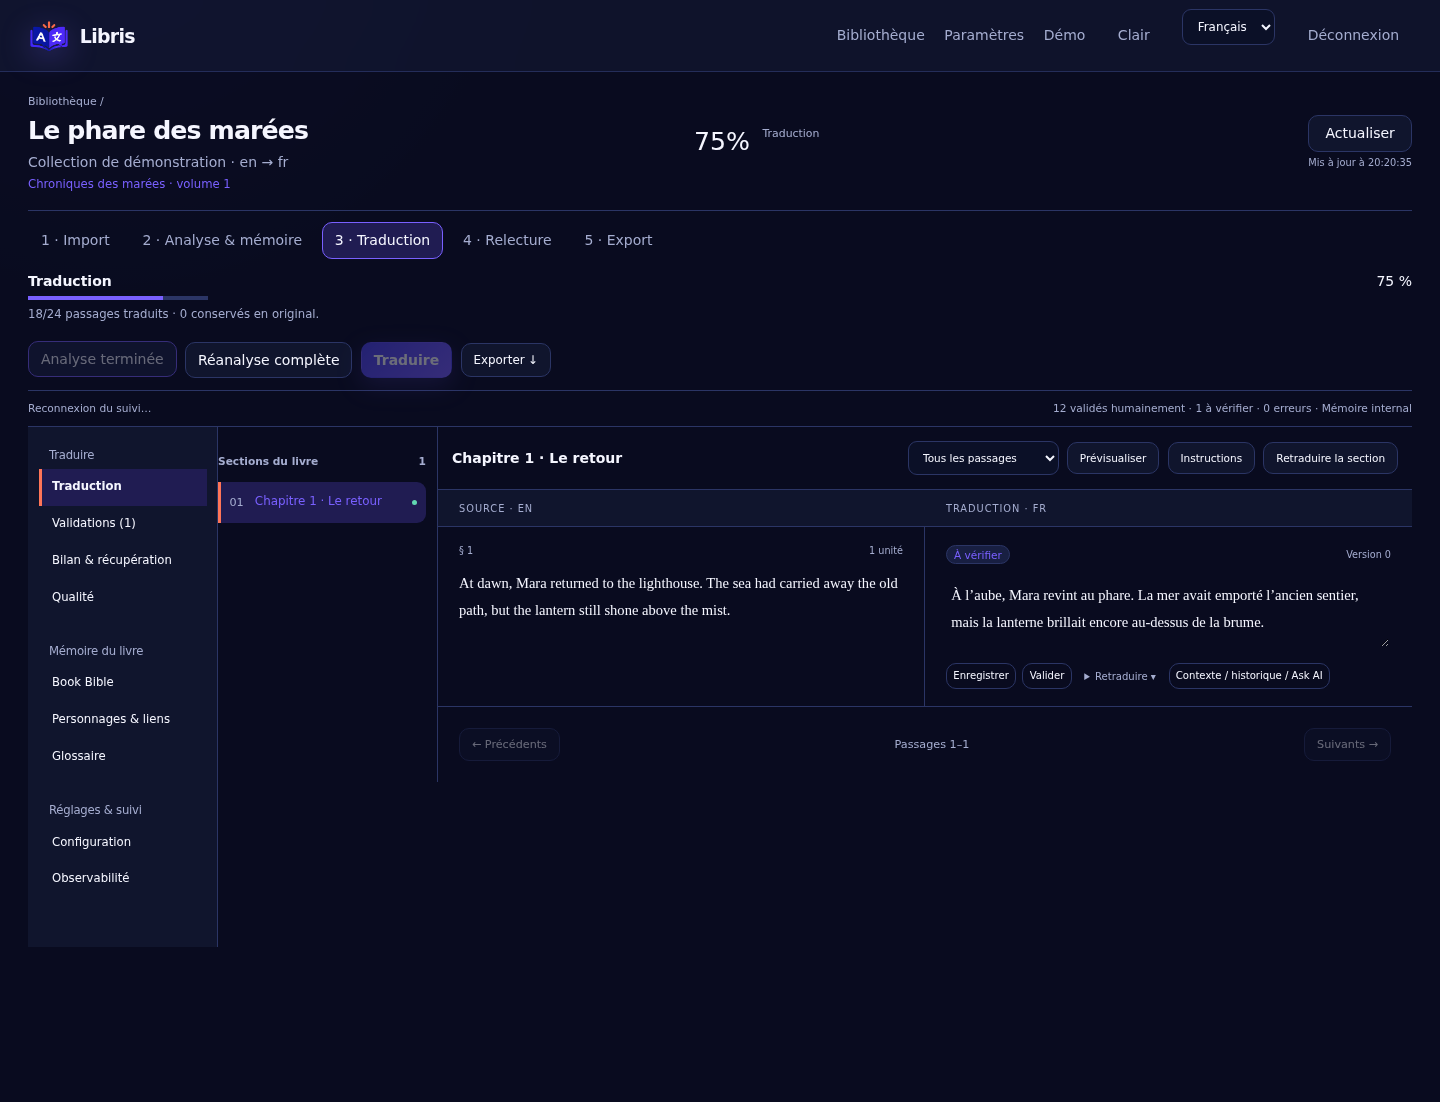
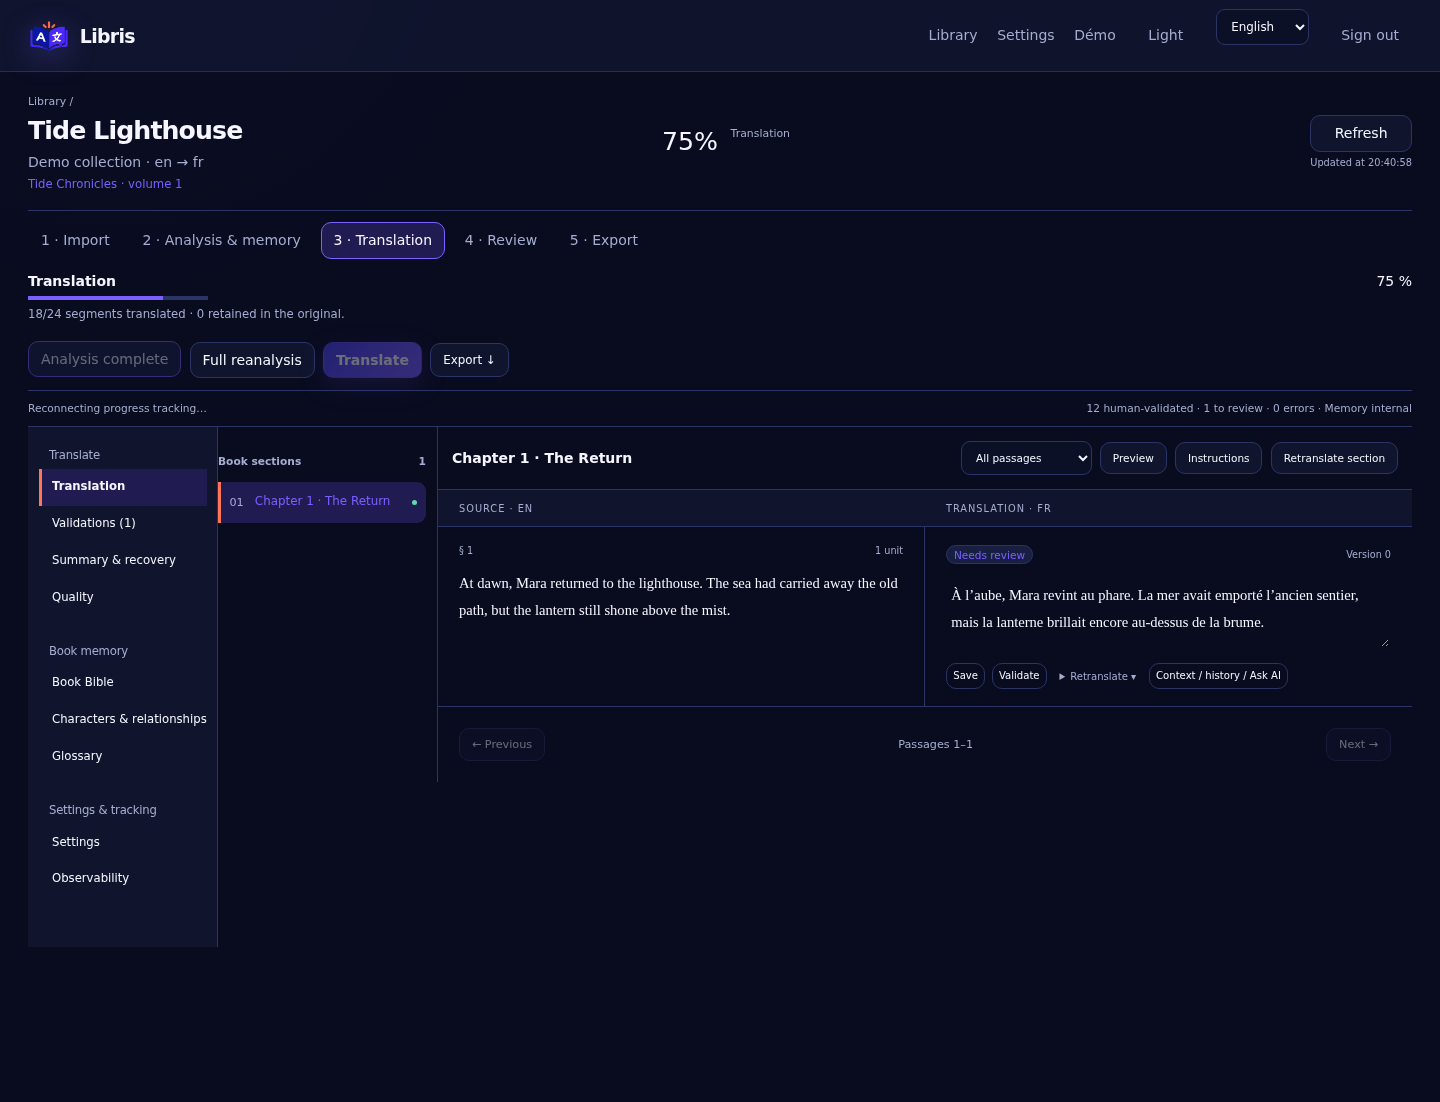
Regenerate README screenshots in English

diff --git a/frontend/e2e/showcase.spec.ts b/frontend/e2e/showcase.spec.ts
@@ -26,9 +26,9 @@ test("capture public Libris showcase", async ({ page }) => {
   const book = {
     id: "demo",
     owner_id: "demo-user",
-    title: "Le phare des marées",
-    author: "Collection de démonstration",
-    series_name: "Chroniques des marées",
+    title: "Tide Lighthouse",
+    author: "Demo collection",
+    series_name: "Tide Chronicles",
     volume_number: 1,
     archived_at: null,
     source_language: "en",
@@ -36,7 +36,7 @@ test("capture public Libris showcase", async ({ page }) => {
     provider_id: "local",
     quality: "high",
     context_backend: "internal",
-    instructions: "Préserver une voix narrative sobre et poétique.",
+    instructions: "Preserve a restrained, poetic narrative voice.",
     status: "ready",
     stats,
     updated_at: 1789254000,
@@ -48,7 +48,7 @@ test("capture public Libris showcase", async ({ page }) => {
     {
       ...book,
       id: "demo-2",
-      title: "Les jardins de cuivre",
+      title: "Copper Gardens",
       volume_number: 2,
       source_language: "ja",
       status: "analyzing",
@@ -64,7 +64,7 @@ test("capture public Libris showcase", async ({ page }) => {
     {
       ...book,
       id: "demo-3",
-      title: "Un atlas pour demain",
+      title: "Atlas for Tomorrow",
       series_name: "",
       volume_number: null,
       source_language: "es",
@@ -74,7 +74,7 @@ test("capture public Libris showcase", async ({ page }) => {
     {
       ...book,
       id: "demo-archive",
-      title: "Le carnet des brumes",
+      title: "Mist Journal",
       series_name: "",
       volume_number: null,
       archived_at: 1789167600,
@@ -84,7 +84,7 @@ test("capture public Libris showcase", async ({ page }) => {
   ];
   const chapter = {
     id: "chapter",
-    title: "Chapitre 1 · Le retour",
+    title: "Chapter 1 · The Return",
     position: 0,
     resource: "chapter.xhtml",
     instructions: "",
@@ -99,7 +99,7 @@ test("capture public Libris showcase", async ({ page }) => {
     project_id: "demo",
     chapter_id: "chapter",
     position: 0,
-    section: "Le retour",
+    section: "The Return",
     source,
     translation,
     units: [{ id: "u1", text: source }],
@@ -165,9 +165,10 @@ test("capture public Libris showcase", async ({ page }) => {
     await route.fulfill({ json: data });
   });
   await page.setViewportSize({ width: 1440, height: 1040 });
+  await page.addInitScript(() => localStorage.setItem("locale", "en"));
   await page.goto(base);
   await expect(
-    page.getByRole("heading", { name: "Bibliothèque", exact: true }),
+    page.getByRole("heading", { name: "Library", exact: true }),
   ).toBeVisible();
   await expect(page.getByRole("progressbar")).toHaveCount(3);
   await expect(page.getByRole("button", { name: /Archives/ })).toContainText(
@@ -175,62 +176,62 @@ test("capture public Libris showcase", async ({ page }) => {
   );
   await expect(
     page.getByRole("progressbar", {
-      name: "Traduction de Le phare des marées",
+       name: "Translation for Tide Lighthouse",
     }),
   ).toHaveAttribute("value", "75");
   await expect(
     page.getByRole("progressbar", {
-      name: "Analyse & mémoire de Les jardins de cuivre",
+       name: "Analysis & memory for Copper Gardens",
     }),
   ).toHaveAttribute("value", "36");
   await expect(
     page.getByRole("progressbar", {
-      name: "Export de Un atlas pour demain",
+       name: "Export for Atlas for Tomorrow",
     }),
   ).toHaveAttribute("value", "100");
   await page.screenshot({ path: resolve(output, "library.png") });
-  await page.getByRole("button", { name: /En cours/ }).click();
+  await page.getByRole("button", { name: /In progress/ }).click();
   await expect(page.locator(".library-table tbody tr")).toHaveCount(1);
   await expect(
-    page.getByRole("link", { name: "Les jardins de cuivre", exact: true }),
+     page.getByRole("link", { name: "Copper Gardens", exact: true }),
   ).toBeVisible();
-  await page.getByLabel("Rechercher un livre").fill("introuvable");
+  await page.getByLabel("Search for a book").fill("introuvable");
   await expect(
-    page.getByText("Aucun livre ne correspond.", { exact: true }),
+     page.getByText("No books match.", { exact: true }),
   ).toBeVisible();
-  await page.getByRole("button", { name: "Effacer les filtres" }).click();
+  await page.getByRole("button", { name: "Clear filters" }).click();
   await expect(page.locator(".library-table tbody tr")).toHaveCount(3);
   await page
-    .getByRole("combobox", { name: "Série", exact: true })
-    .selectOption("Chroniques des marées");
+     .getByRole("combobox", { name: "Series", exact: true })
+     .selectOption("Tide Chronicles");
   await expect(page.locator(".library-table tbody tr")).toHaveCount(2);
   await page.screenshot({
     path: resolve(output, "series.png"),
     fullPage: true,
   });
   await page
-    .getByRole("combobox", { name: "Série", exact: true })
+     .getByRole("combobox", { name: "Series", exact: true })
     .selectOption("all");
   await page.getByRole("button", { name: /Archives/ }).click();
   await expect(
-    page.getByRole("link", { name: "Le carnet des brumes", exact: true }),
+     page.getByRole("link", { name: "Mist Journal", exact: true }),
   ).toBeVisible();
   await expect(
-    page.getByRole("button", { name: "Restaurer", exact: true }),
+     page.getByRole("button", { name: "Restore", exact: true }),
   ).toBeVisible();
   await page.screenshot({
     path: resolve(output, "archives.png"),
     fullPage: true,
   });
-  await page.getByRole("button", { name: /Tous les livres/ }).click();
-  await page.getByLabel("Trier par").selectOption("title");
+  await page.getByRole("button", { name: /All books/ }).click();
+  await page.getByLabel("Sort by").selectOption("title");
   await page
-    .getByRole("button", { name: "+ Importer des EPUB", exact: true })
+     .getByRole("button", { name: "+ Import EPUBs", exact: true })
     .focus();
   await expect(
-    page.getByRole("button", { name: "+ Importer des EPUB", exact: true }),
+     page.getByRole("button", { name: "+ Import EPUBs", exact: true }),
   ).toBeFocused();
-  await page.getByLabel("Trier par").selectOption("recent");
+  await page.getByLabel("Sort by").selectOption("recent");
   await page.setViewportSize({ width: 390, height: 844 });
   expect(await page.evaluate(() => document.documentElement.scrollWidth)).toBe(
     390,
@@ -244,19 +245,19 @@ test("capture public Libris showcase", async ({ page }) => {
   await expect(page.getByText(source, { exact: true })).toBeVisible();
   await expect(page.getByRole("progressbar")).toHaveCount(1);
   for (const [button, detail] of [
-    ["1 · Import", "EPUB importé et structure chargée."],
+     ["1 · Import", "EPUB imported and structure loaded."],
     [
-      "2 · Analyse & mémoire",
-      "24/24 passages analysés · 4/4 sections synthétisées.",
+       "2 · Analysis & memory",
+       "24/24 segments analyzed · 4/4 sections synthesized.",
     ],
-    ["3 · Traduction", "18/24 passages traduits · 0 conservés en original."],
+     ["3 · Translation", "18/24 segments translated · 0 retained in the original."],
     [
-      "4 · Relecture",
-      "16/24 passages examinés · 0 résolus · 1 à vérifier.",
+       "4 · Review",
+       "16/24 segments reviewed · 0 resolved · 1 to review.",
     ],
     [
-      "5 · Export",
-      "Terminez les alertes restantes avant l’export final.",
+       "5 · Export",
+       "Resolve the remaining alerts before the final export.",
     ],
   ]) {
     await page.getByRole("button", { name: button, exact: true }).click();
@@ -264,18 +265,18 @@ test("capture public Libris showcase", async ({ page }) => {
     await expect(page.getByRole("progressbar")).toHaveCount(1);
   }
   await page
-    .getByRole("button", { name: "3 · Traduction", exact: true })
+     .getByRole("button", { name: "3 · Translation", exact: true })
     .click();
-  await page.getByRole("button", { name: "Suivre l’étape active" }).click();
+  await page.getByRole("button", { name: "Follow the active stage" }).click();
   await page.screenshot({
     path: resolve(output, "progress-stages.png"),
     fullPage: true,
   });
   await page.screenshot({ path: resolve(output, "editor.png") });
   await page
-    .getByRole("button", { name: "Validations (1)", exact: true })
+     .getByRole("button", { name: "Validations (1)", exact: true })
     .click();
-  await expect(page.getByText("Avis de l’IA", { exact: true })).toBeVisible();
+  await expect(page.getByText("AI opinion", { exact: true })).toBeVisible();
   await page.screenshot({
     path: resolve(output, "validations.png"),
     fullPage: true,
@@ -290,30 +291,21 @@ test("capture public Libris showcase", async ({ page }) => {
   });
   await page.setViewportSize({ width: 1440, height: 1040 });
   await page
-    .getByRole("button", { name: "Changer de thème", exact: true })
+     .getByRole("button", { name: "Change theme", exact: true })
     .click();
   await page.screenshot({
     path: resolve(output, "validations-light.png"),
     fullPage: true,
   });
-  await page.getByText("Exporter ↓", { exact: true }).click();
+  await page.getByText("Export ↓", { exact: true }).click();
   const download = page.waitForEvent("download");
-  await page.getByRole("link", { name: "EPUB traduit", exact: true }).click();
+  await page.getByRole("link", { name: "Translated EPUB", exact: true }).click();
   await download;
   await expect(
-    page.getByText("Fichier reçu ; téléchargement transmis au navigateur."),
+     page.getByText("File received; download sent to the browser."),
   ).toBeVisible();
-  await page.getByRole("combobox", { name: "Langue" }).selectOption("en");
   await expect(
     page.getByRole("heading", { name: "Translation validations" }),
-  ).toBeVisible();
-  await expect(page.getByRole("button", { name: "Change theme" })).toBeVisible();
-  await page.getByRole("combobox", { name: "Language" }).selectOption("fr");
-  await expect(
-    page.getByRole("heading", { name: "Validations de traduction" }),
-  ).toBeVisible();
-  await expect(
-    page.getByRole("button", { name: "3 · Traduction", exact: true }),
   ).toBeVisible();
   expect(errors).toEqual([]);
 });
